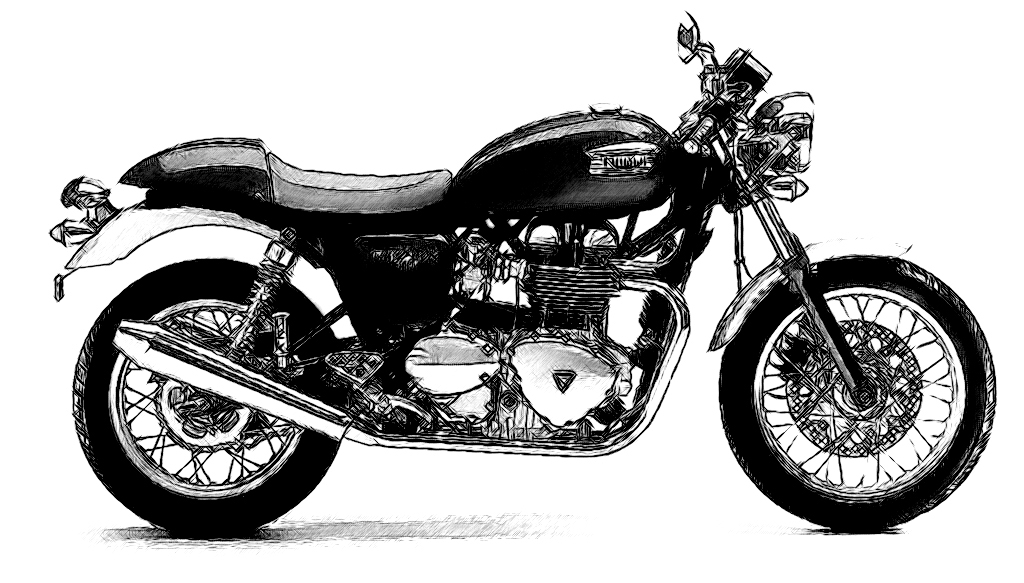
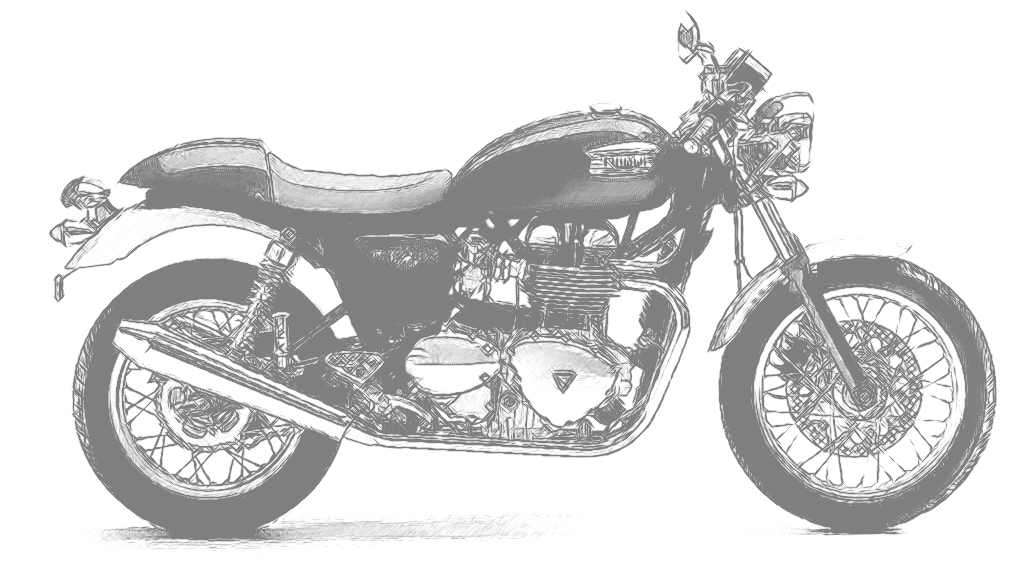
various changes including requests from Waynes email.  Changes include mostly design/style changes - various links updates, and dropped opacity on images in image editor (unable to control opacity in CSS due to parent:child dependencies - easier to change image in image prog

diff --git a/training.html b/training.html
@@ -55,10 +55,10 @@
     <!-- JUMBOTRON -->
     <div class="jumbotron standard-jumbotron trainingpage">
       <div class="container">
-        <h1>Available Courses</h1>
-        <p class="lead">At M.O.S.T we offer a number of courses for motorcycle riders and enthusiasts.</p>
-        <p class="lead">Below is a summary of courses offered for selection.</p>
-        <p class="lead">Classes NOW forming!</p>
+        <h1  class="jumboTitle text-center">Available Courses</h1>
+        <p class="lead text-center">At M.O.S.T we offer a number of courses for motorcycle riders and enthusiasts.</p>
+        <p class="lead text-center">Below is a summary of courses offered for selection.</p>
+        <p class="lead text-center">Classes NOW forming!</p>
                   <p class="text-center"><a class="btn btn-lg btn-success fp-buttons orange-bkgrnd" href="#">Get Pricing</a>
              <a class="btn btn-lg btn-success fp-buttons orange-bkgrnd" href="#">Take a class</a>
              <a class="btn btn-lg btn-success fp-buttons orange-bkgrnd" href="/giftCerts.html">Gift Certificates</a>
@@ -76,28 +76,28 @@
            
           <div class="col-xs-6 col-sm-3">
           <center><img class="img-circle" src="./imgs/basic.gif" alt="Basic Rider Course"></center>
-          <h2 class="text-left"><p class="lead">Basic Rider Course</h2></p>
+          <h2 class="text-left"><p class="lead2">Basic Rider Course</h2></p>
           <p class="cast">The Basic Rider Course is a license waiver course designed for the beginner rider as well as those who have spent many years on two wheels. Successful completion of this course will will grant the student a license waiver that will allow them to get their motorcycle endorsement without any further testing.</p>
           </br></br></br><p align="center"><a class="btn btn-lg btn-success fp-buttons orange-bkgrnd" href="./basictraining.html">View details &raquo;</a></p>
           </div><!-- /.col-lg-4 -->
         
         <div class="col-xs-6 col-sm-3">
           <center><img class="img-circle" src="./imgs/exp.gif" alt="Experienced Rider Course"></center>
-          <h2 class="text-left"><p class="lead">Experienced Rider Course</h2></p>
+          <h2 class="text-left"><p class="lead2">Experienced Rider Course</h2></p>
           <p class="cast">The Experienced Rider Course is designed for riders who are already licensed and ride frequently. Students may repeat the course periodically to keep skills and perceptions about safety fresh. This course is performed on your own motorcycle to build confidence.</p>
           </br></br></br></br><p align="center"><a class="btn btn-lg btn-success fp-buttons orange-bkgrnd" href="./expTraining.html" role="button">View details &raquo;</a></p>
           
         </div><!-- /.col-lg-4 -->
         <div class="col-xs-6 col-sm-3">
           <center><img class="img-circle" src="./imgs/return.gif" alt="Returning Rider Course"></center>
-          <h2 class="text-left"><p class="lead">Returning Rider Course</h2></p>
+          <h2 class="text-left"><p class="lead2">Returning Rider Course</h2></p>
           <p class="cast">The Returning Rider Basic Rider Course is a new 8 hour course designed for riders who are returning to riding after an absence. This program combines elements of the Basic Rider Course (BRC) and the Experienced Rider Course (BRC2) including a knowledge test and a skill evaluation.</p>
           </br></br></br><p align="center"><a class="btn btn-lg btn-success fp-buttons orange-bkgrnd" href="./rtnRiderTraining.html" role="button">View details &raquo;</a></p>
          
         </div><!-- /.col-lg-4 -->
          <div class="col-xs-6 col-sm-3">
           <center><img class="img-circle" src="./imgs/3WR.jpg" alt="Three Wheel Rider Course"></center>
-          <h2 class="text-left"><p class="lead">Three Wheel Rider Course</h2></p>
+          <h2 class="text-left"><p class="lead2">Three Wheel Rider Course</h2></p>
           <p class="cast">Available for trikes or Spyders, this new course from the Motorcycle Safety Foundation is just what you need to get a good feel for riding your trike or spyder.  It's a fun way to get started or brush up your skills. Successful completion of this course will grant the student a license waiver that will allow them to get their three wheel endorsement without any further testing.</p>
           </br><p align="center"><a class="btn btn-lg btn-success fp-buttons orange-bkgrnd" href="./threeWheelTraining.html" role="button">View details &raquo;</a></p>
           

diff --git a/about.html b/about.html
@@ -56,28 +56,8 @@
     <div class="jumbotron aboutpage jumbopad">
       <div class="container">
         <h1 class="jumboTitle text-center">About Us</h1>
-        <div class="box">
-        <p class="lead purple">We started this company to provide more opportunities for people to get into a motorcycle training course.
-        All of our instructors are very experienced riders and certified to teach by the Motorcycle Safety Foundation. 
-        We task our instructors to treat all of our customers as they would want a member of their family treated if they were taking the course.</p>
-        <p class="lead purple">Our goal is to provide a welcome, organized, professional and friendly environment for people to obtain motorcycle safety training.
-        We strive to help meet the individual needs of our students and make this training both safe and fun.</p>
+        <div class="box">        
         <p class="text-center"><a class="btn btn-lg btn-success fp-buttons orange-bkgrnd" href="schedule.html">Sign-up for a Class!</a></p>
-        <p class="text-center">
-          <a href="#Wayne"><button class="btn btn-primary" type="button">Wayne</button></a>
-          <a href="#John"><button class="btn btn-primary" type="button">John</button></a>
-          <a href="#Paul"><button class="btn btn-primary" type="button">Paul</button></a>
-          <a href="#Greg"><button class="btn btn-primary" type="button">Greg</button></a>
-          <a href="#Al"><button class="btn btn-primary" type="button">Al</button></a>
-        </p>
-        <p class="text-center">  
-          <a href="#Don"><button class="btn btn-primary" type="button">Don</button></a>
-          <a href="#Jane"><button class="btn btn-primary" type="button">Jane</button></a>
-          <a href="#Zach"><button class="btn btn-primary" type="button">Zach</button></a>
-          <a href="#Mark"><button class="btn btn-primary" type="button">Mark</button></a>
-          <a href="#Chase"><button class="btn btn-primary" type="button">Chase</button></a>
-          <a href="#Jennifer"><button class="btn btn-primary" type="button">Jennifer</button></a>
-        </p>
         </div>
       </div>
     </div>
@@ -85,11 +65,16 @@
 
     <!-- START BODY CONTENT -->
     
-
-  <div class="row">&bsp;</div>
-
+  <div class="col-sm-12 col-md-offset-3 col-md-6 lead" style="color: #fff; margin-top: 1em">
+    We started this company to provide more opportunities for people to get into a motorcycle training course.
+    All of our instructors are very experienced riders and certified to teach by the Motorcycle Safety Foundation. 
+    We task our instructors to treat all of our customers as they would want a member of their family treated if they were taking the course.
+    <br/><br/>
+    Our goal is to provide a welcome, organized, professional and friendly environment for people to obtain motorcycle safety training.
+    We strive to help meet the individual needs of our students and make this training both safe and fun.
+    </div>
   <div class="row">
-    <div class="col-sm-6 col-md-offset-3 col-md-3">
+    <div class="col-sm-6 col-md-offset-3 col-md-3">    
       <div class="thumbnail" id="Wayne">
         <img src="./imgs/wayne.jpg"/>  
         <div class="caption">

diff --git a/css/mostwwwstyles.css b/css/mostwwwstyles.css
@@ -296,8 +296,7 @@ html, body {
     color: #fff;
 }*/
 .carousel-overlay, .jumboTitle {
-    color: white !important;
-    text-shadow: 1px 1px 1px rgba(0,0,0,.75);
+    color: #000 !important;
 }
 
 .carousel-overlay h1 {
@@ -406,11 +405,16 @@ html, body {
 }
 
 .lead {
-    color: #DB841F;
+    color: #000;
     font-weight: 800 !important;
-    text-shadow: 1px 1px 1px #000;
+    
 }
 
+.lead2 {
+    color: #F2E8E8;
+    font-weight: 800 !important;
+    
+}
 
 .cast {
     font-size: 1.0em;
@@ -442,7 +446,7 @@ html, body {
 }
 
 .phone>a {
-    color: #DB841F;
+    color: #000;
     font-weight: bolder;
     text-decoration: none;
 }
@@ -630,62 +634,62 @@ a:link a:visited a:hover a:active {
     background: url(../imgs/guy_on_motorcycle.jpg) no-repeat center;
     background-size: cover;
     opacity: 0.75;
-    height: 100%;
+    height: 80%;
 }
 
 .standard-jumbotron {
     background-size: cover;
     opacity: 0.75;
-    height: 100%;
+    height: 80%;
 }
 
 .aboutpage {
     background: url(../imgs/2215746619_2ee4fe635f_o.jpg) no-repeat center;
     background-size: cover;
     opacity: 0.75;
-    height: 100%;
+    height: 80%;
 }
 
 .giftcerts-page {
     background: url(../imgs/16273464919_eb98722dfa_k.jpg) no-repeat center;
     background-size: cover;
     opacity: 0.75;
-    height: 100%;
+    height: 80%;
 }
 
 .trainingpage {
     background: url(../imgs/12458369475_13eda62d51_o.jpg) no-repeat center;
     background-size: cover;
     opacity: 0.75;
-    height: 100%;
+    height: 80%;
 }
 
 .schedulepage {
     background: url(../imgs/2216540928_9e6b81b8ae_o.jpg) no-repeat center;
     background-size: cover;
     opacity: 0.75;
-    height: 100%;
+    height: 80%;
 }
 
 .contactpage {
     background: url(../imgs/14172076541_e142d24677_k.jpg) no-repeat center;
     background-size: cover;
     opacity: 0.75;
-    height: 100%;
+    height: 80%;
 }
 
 .faqpage {
     background: url(../imgs/2216540202_9c0d882050_o.jpg) no-repeat center;
     background-size: cover;
     opacity: 0.75;
-    height: 100%;
+    height: 80%;
 }
 
 .linkspage {
     background: url(../imgs/14082449743_ea19cd6430_k.jpg) no-repeat center;
     background-size: cover;
     opacity: 0.75;
-    height: 100%;
+    height: 80%;
 }
 
 .top-header {
@@ -780,6 +784,10 @@ a:link a:visited a:hover a:active {
     margin-top: 30px;
     width: 200px;
     height: 200px;
+}
+
+.well {
+    background-color: #D8CFA8;
 }
 
 /*@media screen and (max-width: 560px) {

diff --git a/giftCerts.html b/giftCerts.html
@@ -56,16 +56,17 @@
     <!-- JUMBOTON -->
     <div class="jumbotron standard-jumbotron giftcerts-page">
       <div class="container">
-        <h1>Gift Certificates</h1>
-        <p class="lead">We have gift certificates available for our Basic Rider Course, Experienced Rider Course, and 3-Wheeled Motorcycle Course.</p>
-        <p class="lead">To order using online payment, fill out the form below then pay using the Buy Now buttons. If you have any questions or to place a phone order, you may contact us at 800.503.6678. Please feel free to leave a message. We are a seasonal business but we make it a point to return phone calls promptly.</p>
-        <p class="lead">Gift certificates are usually mailed out within 24 hours of payment being received.</p>
-        <p class="lead">Anyone receiving a gift certificate will be considered an early registrant. They will be notified via email approximately one week before the schedule is published in order to sign up for their class.</p></br>
+        <h1 class="jumboTitle text-center">Gift Certificates</h1>
         <p><center><img src="./imgs/giftcert.jpeg"></center></p>
 <!--        <p class="text-center"><a class="btn btn-primary btn-lg" role="button">Sign-up for a Class!</a></p>-->
       </div>
     </div>
-    
+    <div class="col-sm-12 col-md-offset-3 col-md-6 lead" style="margin-top:1em">
+    <p class="lead lead2 ">We have gift certificates available for our Basic Rider Course, Experienced Rider Course, and 3-Wheeled Motorcycle Course.</p>
+        <p class="lead lead2">To order using online payment, fill out the form below then pay using the Buy Now buttons. If you have any questions or to place a phone order, you may contact us at 800.503.6678. Please feel free to leave a message. We are a seasonal business but we make it a point to return phone calls promptly.</p>
+        <p class="lead lead2">Gift certificates are usually mailed out within 24 hours of payment being received.</p>
+        <p class="lead lead2">Anyone receiving a gift certificate will be considered an early registrant. They will be notified via email approximately one week before the schedule is published in order to sign up for their class.</p></br>
+    </div>
     <!---CONTAINER--->
     <div class="container">
         <ol><h2><li class="lead">Fill out the registration form and press Submit</li></h2></br>

diff --git a/joinInstructors.html b/joinInstructors.html
@@ -54,16 +54,13 @@
     </nav>
 
     <!-- JUMBOTON -->
-    <div class="jumbotron">
+    <div class="jumbotron linkspage">
       <div class="container">
-        <h1>Become an Instructor</h1></br>
-        <p class="lead">Spend the weekend doing what you're passionate about! We are always keeping an eye out for that potentially new member of our instructor family.</p>  
-        <p class="lead">We need experienced riders to help us train new riders!</p>
-        <p class="lead">For more info, click Contact Us button below.</p>
-        
-                  <p class="text-center"><a class="btn btn-lg btn-success fp-buttons orange-bkgrnd" href="#">Get Pricing</a>
-             <a class="btn btn-lg btn-success fp-buttons orange-bkgrnd" href="#">Take a class</a>
-             <a class="btn btn-lg btn-success fp-buttons orange-bkgrnd" href="/giftCerts.html">Buy Certificate</a>
+        <h1 class="jumboTitle text-center">Become an Instructor</h1></br>
+        <p class="lead text-center">Spend the weekend doing what you're passionate about! We are always keeping an eye out for that potentially new member of our instructor family.</p>  
+        <p class="lead text-center">We need experienced riders to help us train new riders!</p>
+        <p class="lead text-center">For more info, click Contact Us button below.</p>
+        <center><a class="btn btn-lg btn-success fp-buttons orange-bkgrnd" href="/contact.html">Contact Us</a></center>
           </p>
       </div>
     </div>

diff --git a/faq.html b/faq.html
@@ -57,10 +57,10 @@
     <div class="jumbotron standard-jumbotron faqpage">
       <div class="container">
           <p class="text-center"></p>  
-        <h1>Frequently Asked Questions</h1>
+        <h1  class="jumboTitle text-center">Frequently Asked Questions</h1>
         <p class="lead">We will continue to update our FAQ section to provide the most comprehensive online support possible.</p>
         <p class="lead">Click on any of the following most Frequently Asked Questions to find out the answers you're looking for.</p>
-        <p class="lead">If you cannot find the answer to your question here, you can <a href="contact.html">contact us</a>, or call us at 1-800-503-MOST (6678)</p>
+        <p class="lead">If you cannot find the answer to your question here, you can <a href="contact.html" style="color: #C7730A">contact us</a>, or call us at 1-800-503-MOST (6678)</p>
         
           <p class="text-center"><a class="btn btn-lg btn-success fp-buttons orange-bkgrnd" href="#">Get Pricing</a>
              <a class="btn btn-lg btn-success fp-buttons orange-bkgrnd" href="#">Take a class</a>
@@ -74,7 +74,7 @@
     
 
 
-      <div class="container">
+    <div class="container" style="margin-top:1em">
 
     <section class="faq-section">
 

diff --git a/contact.html b/contact.html
@@ -56,8 +56,8 @@
     <!-- JUMBOTON -->
     <div class="jumbotron standard-jumbotron contactpage">
       <div class="container">
-        <h1>Contact Us</h1>
-        <p class="lead">To contact us by email, use the form below or feel free to call us using the info below.</p>
+        <h1 class="jumboTitle text-center">Contact Us</h1>
+        <p class="lead text-center">To contact us by email, use the form below or feel free to call us using the info below.</p>
                   <p class="text-center"><a class="btn btn-lg btn-success fp-buttons orange-bkgrnd" href="#">Get Pricing</a>
              <a class="btn btn-lg btn-success fp-buttons orange-bkgrnd" href="#">Take a class</a>
              <a class="btn btn-lg btn-success fp-buttons orange-bkgrnd" href="/giftCerts.html">Buy Certificate</a>
@@ -69,7 +69,7 @@
     
 
     <!-- START BODY CONTENT -->
-    <div class="container">
+    <div class="container" style="margin-top:1em;">
     <div class="row">
         <div class="col-md-12">
             <div class="well well-sm">

diff --git a/basictraining.html b/basictraining.html
@@ -54,9 +54,9 @@
     </nav>
       
     <!-- JUMBOTON -->
-    <div class="jumbotron">
+    <div class="jumbotron faqpage">
       <div class="container">
-        <h1>Basic Rider Course</h1>
+        <h1 class="jumboTitle text-center">Basic Rider Course</h1>
         <p class="lead">This course is aimed at beginner riders who have obtained their regular driver's license or have completed a driver's education course.   A minimum of five hours of classroom instruction prepares you for up to fifteen hours of practical riding in a controlled off-street environment, typically a parking lot that is free of obstacles and traffic. A motorcycle and helmet are available and included in your tuition.</p>
         
                   <p class="text-center"><a class="btn btn-lg btn-success fp-buttons orange-bkgrnd" href="#">Get Pricing</a>

diff --git a/links.html b/links.html
@@ -56,8 +56,8 @@
     <!-- JUMBOTON -->
     <div class="jumbotron standard-jumbotron linkspage">
       <div class="container">
-        <h1>Links</h1>
-        <p class="lead">You'll find a collection of useful links below. Feel free to click any of the images to learn more.</p>
+        <h1 class="jumboTitle text-center">Links</h1>
+        <p class="lead text-center">You'll find a collection of useful links below. Feel free to click any of the images to learn more.</p>
    
       </div>
     </div>
@@ -66,7 +66,7 @@
     <!-- START BODY CONTENT -->
     
     
-    <div class="container">
+    <div class="container" style="margin-top: 1em">
     
     <div class="row">
         <div class="col-lg-6 col-md-6">

diff --git a/threeWheelTraining.html b/threeWheelTraining.html
@@ -53,9 +53,9 @@
         </div>
     </nav>
     <!-- JUMBOTON -->
-    <div class="jumbotron">
+    <div class="jumbotron giftcerts-page">
       <div class="container">
-        <h1>Three Wheeled Motorcycle - Basic Rider</h1>
+        <h1 class="jumboTitle">Three Wheeled Motorcycle - Basic Rider</h1>
         <h2>Course for Trykes or Spyders</h2>
         <p class="lead">Available for trikes or Spyders, this new course from the Motorcycle Safety Foundation is just what you need to get a good feel for riding your trike or spyder.  It's a fun way to get started or brush up your skills.  You can use your own machine or one of our newly converted GZ250 trikes!  Sorry but sidecars are not allowed. </p>
 

diff --git a/expTraining.html b/expTraining.html
@@ -55,9 +55,9 @@
       
       
     <!-- JUMBOTON -->
-    <div class="jumbotron">
+    <div class="jumbotron toppage">
       <div class="container">
-        <h1>Experienced Rider Course</h1>
+        <h1 class="jumboTitle text-center">Experienced Rider Course</h1>
         <p class="lead">Sharpen your riding skills while exposing some of those bad habits you may have picked up over the years.</p>
         
                   <p class="text-center"><a class="btn btn-lg btn-success fp-buttons orange-bkgrnd" href="#">Get Pricing</a>

diff --git a/rtnRiderTraining.html b/rtnRiderTraining.html
@@ -54,9 +54,9 @@
     </nav>
 
     <!-- JUMBOTON -->
-    <div class="jumbotron">
+    <div class="jumbotron schedulepage">
       <div class="container">
-        <h1>Returning Rider Basic Rider Course</h1></br>
+        <h1 class="jumboTitle text-center">Returning Rider Basic Rider Course</h1></br>
         <p class="lead">So, after a long layoff you've decided to get back in the saddle again to experience the wind in your face?</p>  
         <p class="lead">Welcome Back!</p>
         
